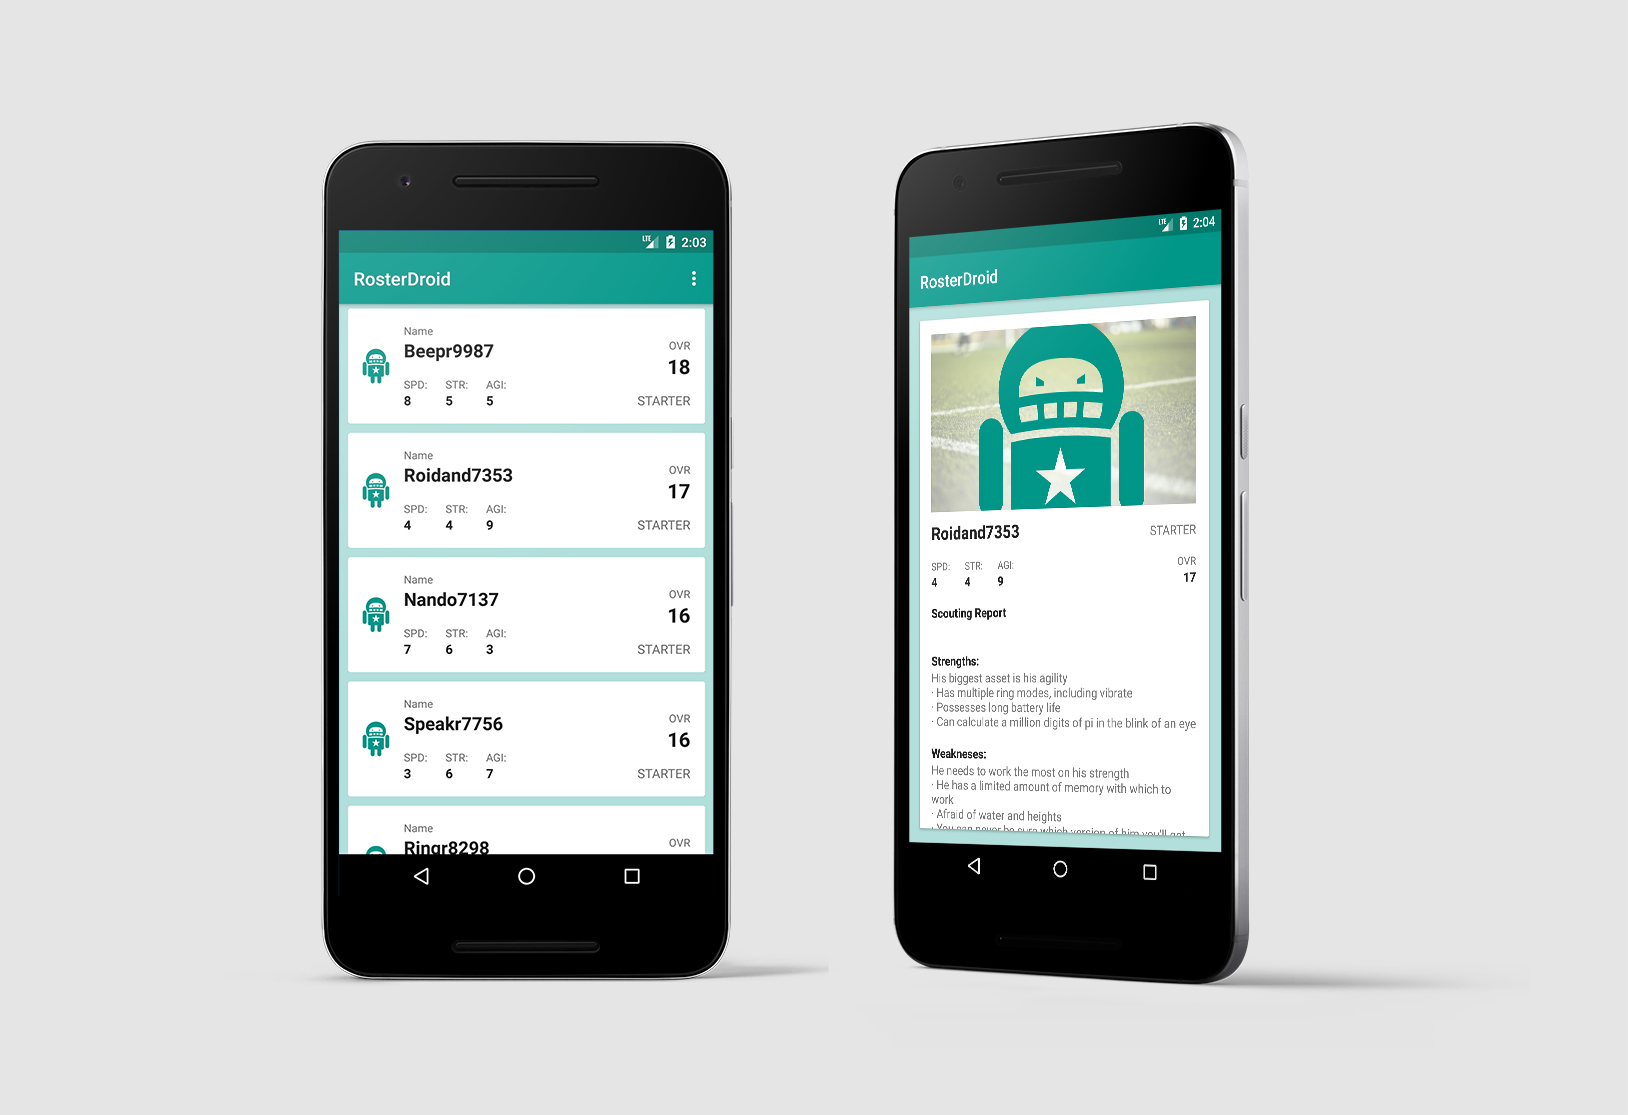
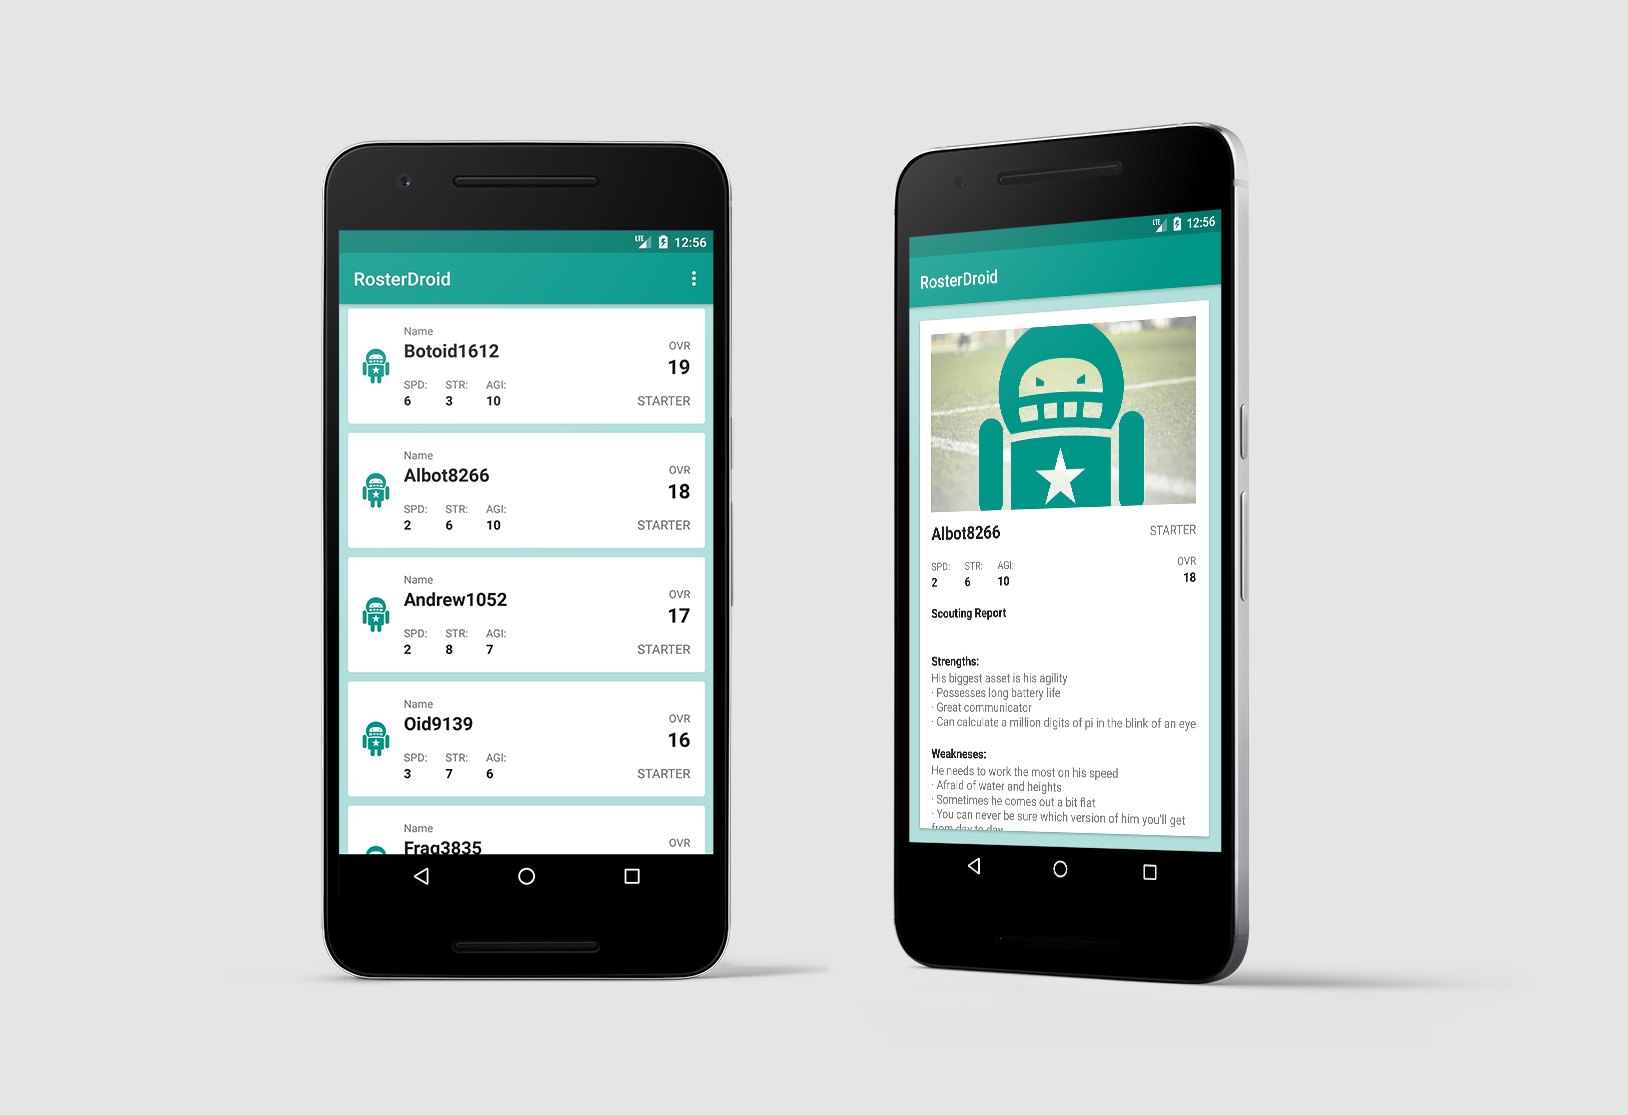
Changed droid creation algorithm to ensure no droids have the same total score. Updated preview image

diff --git a/app/src/main/java/com/huebelancer/rosterdroid/Helpers/Helpers.kt b/app/src/main/java/com/huebelancer/rosterdroid/Helpers/Helpers.kt
@@ -8,6 +8,7 @@ import android.transition.Fade
 import android.transition.Slide
 import com.huebelancer.rosterdroid.ModelLayer.Enums.Attributes
 import java.util.*
+import kotlin.collections.LinkedHashMap
 
 
 class Helpers {
@@ -43,44 +44,101 @@ class Helpers {
 
         //region Roster Helpers
 
-        fun allocatedCapRoom(remainingCap: Int, remainingDroids: Int): Int {
-            val average: Int = remainingCap / remainingDroids
+        fun getPointValues(): LinkedHashMap<String, Int> {
+            //Calculate the sum of the positions for both starters and subs
+            val substitutes_baseScore = baseScoreOf(Constants.SUB_COUNT)
+            val starter_baseScore     = baseScoreOf(teamCount()) - substitutes_baseScore
 
-            if (remainingDroids > 5) {
-                val rand: Random = Random()
+            /*
+            * Determine how many points are left over inside the cap
+            * These points will be spread across starters and subs
+            * so that we use all of the cap
+            */
+            val variable_points = Constants.SALARY_CAP - (substitutes_baseScore + starter_baseScore)
+            var points_for_subs = 0
 
-                val starterAverage = (remainingCap - 25) / (remainingDroids - 5)
-                val min = starterAverage - 3
-                val max = starterAverage + 3
+            when {
+                variable_points % Constants.STARTER_COUNT == 0 -> {
+                    points_for_subs = 4
+                }
+                variable_points % Constants.SUB_COUNT == 0 -> {
+                    points_for_subs = 3
+                }
+                (Math.round(variable_points / 10.0) * 10) % 10 == 0L -> { //variable_points ended in a number between 5 and 10
+                    points_for_subs = 3
+                }
+            }
 
-                return rand.nextInt(max - min) + min
+            /*
+            * If points_for_subs is 0 at this point, variable_points
+            * must have ended in a number between 0 and 5
+            */
+            if (points_for_subs == 0){
+                points_for_subs = 4
+            }
 
-            } else if (remainingDroids == 1) {
-                return remainingCap
+            /*
+            * If the cap were to go lower than 175, this line
+            * corrects the balance so that starters still receive a
+            * higher proportion of the points
+            */
+            if (variable_points < 55) {
+                points_for_subs -= 2
+            }
 
-            } else {
+            val points_for_starters = (variable_points - (points_for_subs * Constants.SUB_COUNT)) / 10
 
-                return average
+            val map: LinkedHashMap<String, Int> = LinkedHashMap()
+            map.put(Constants.STARTER_KEY, points_for_starters)
+            map.put(Constants.SUB_KEY, points_for_subs)
+
+            return map
+        }
+
+        fun allocatedCapRoom(player: Int, remainingCap: Int, pointValues: LinkedHashMap<String, Int>): Int {
+
+            val points_for_starters = pointValues[Constants.STARTER_KEY]!!
+            val points_for_subs = pointValues[Constants.SUB_KEY]!!
+
+            return when {
+                player > Constants.SUB_COUNT ->
+                    player + points_for_starters
+                player == teamCount() ->
+                    //If salary cap isn't divisible by 5, the last starter created
+                    //will be the best player. He will consume the rest of the cap
+                    remainingCap
+                else ->
+                    player + points_for_subs
             }
         }
 
         fun attributeToString(attr: Attributes?): String {
             if (attr != null) {
-                when(attr) {
+                return when (attr) {
                     Attributes.SPEED -> {
-                        return Constants.ATTR_SPEED
+                        Constants.ATTR_SPEED
                     }
                     Attributes.AGILITY -> {
-                        return Constants.ATTR_AGILITY
+                        Constants.ATTR_AGILITY
                     }
                     Attributes.STRENGTH -> {
-                        return Constants.ATTR_STRENGTH
+                        Constants.ATTR_STRENGTH
                     }
                 }
             }
 
             return ""
         }
+
+        private fun baseScoreOf(number: Int): Int {
+            return (1..number).sum()
+        }
+
+        private fun teamCount():Int {
+            return Constants.STARTER_COUNT + Constants.SUB_COUNT
+        }
+
+
 
         //endregion
     }

diff --git a/app/src/main/java/com/huebelancer/rosterdroid/ModelLayer/ModelLayer.kt b/app/src/main/java/com/huebelancer/rosterdroid/ModelLayer/ModelLayer.kt
@@ -1,9 +1,11 @@
 package com.huebelancer.rosterdroid.ModelLayer
 
 import com.huebelancer.rosterdroid.Helpers.Constants
+import com.huebelancer.rosterdroid.Helpers.Helpers
 import com.huebelancer.rosterdroid.Helpers.Helpers.Companion.allocatedCapRoom
 import com.huebelancer.rosterdroid.ModelLayer.Models.Droid
 import java.util.*
+import kotlin.collections.LinkedHashMap
 
 class ModelLayer {
 
@@ -21,11 +23,13 @@ class ModelLayer {
         val rand = Random()
 
         val droids = mutableListOf<Droid>()
+        val starter_sub_pointValues: LinkedHashMap<String, Int> = Helpers.getPointValues()
 
-        for (i in 0..14) {
-            //figure out how much cap room I want to take
-            val capRoom = allocatedCapRoom(remainingCap(droids), 15 - i)
-            val isStarter = i < 10
+        for (i in 1..15) {
+            val isStarter = i > Constants.SUB_COUNT
+
+            //figure out how much cap room this bot can consume
+            val capRoom = allocatedCapRoom(i, remainingCap(droids), starter_sub_pointValues)
 
             //allocate given cap points to attributes
             val max: Int = capRoom / 2
@@ -37,7 +41,7 @@ class ModelLayer {
 
 
             //generate a name
-            val name = Constants.DROID_NAMES[i] + numericSequence(rand)//simple 4 digit random number
+            val name = Constants.DROID_NAMES[i - 1] + numericSequence(rand)//simple 4 digit random number
 
 
             droids.add(
@@ -46,17 +50,15 @@ class ModelLayer {
         }
 
         droids.sortBy { droid ->
-            droid.totalAttributes()
+            droid.totalAttributes() * -1
         }
-
-        droids.reverse()
 
         //Interface back to fragment
         callback.onDroidsLoaded(droids, false)
     }
 
 
-    fun remainingCap(droids: MutableList<Droid>): Int {
+    private fun remainingCap(droids: MutableList<Droid>): Int {
         var capConsumed = 0
 
         droids.forEach { droid ->
@@ -67,7 +69,7 @@ class ModelLayer {
     }
 
 
-    fun numericSequence(rand: Random): Int {
+    private fun numericSequence(rand: Random): Int {
         return rand.nextInt(9000) + 1000
     }
 

diff --git a/app/src/main/java/com/huebelancer/rosterdroid/Helpers/Constants.kt b/app/src/main/java/com/huebelancer/rosterdroid/Helpers/Constants.kt
@@ -4,7 +4,14 @@ package com.huebelancer.rosterdroid.Helpers
 class Constants {
 
     companion object {
-        val SALARY_CAP = 175
+        val SALARY_CAP    = 175
+        val STARTER_COUNT = 10
+        val SUB_COUNT     = 5
+
+        val STARTER_KEY = "starter"
+        val SUB_KEY     = "sub"
+
+
         val ATTR_STRENGTH = "strength"
         val ATTR_AGILITY  = "agility"
         val ATTR_SPEED    = "speed"
